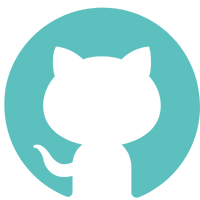
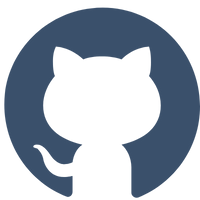
Atualização

diff --git a/html/contato.html b/html/contato.html
@@ -16,9 +16,9 @@
 
 <!--Cabeçalho-->
     <header>
-          <nav class="navbar navbar-expand-lg  fixed-top"style=" background: rgba(114, 223, 255, 0.9)">
+          <nav class="navbar navbar-expand-lg  fixed-top">
             <div class="container-fluid cabecalho">
-                <img src="../assets/logo1.png" alt="Logo da empresa Solucione" width="130" height="28">
+                <img src="../assets/logo.png" alt="Logo da empresa Solucione" width="134" height="36">
               <button class="navbar-toggler" type="button" data-bs-toggle="collapse" data-bs-target="#navbarNav" aria-controls="navbarNav" aria-expanded="false" aria-label="Toggle navigation">
                 <span class="navbar-toggler-icon"></span>
               </button>
@@ -55,7 +55,7 @@
     <section class="flex">
 
         <div>
-            <img src="../assets/bruna.gif" alt='Diretora e fundadora da Solucione'width="200px" height="200">
+            <img src="../assets/bruna.png" alt='Diretora e fundadora da Solucione'width="200px" height="200">
             <h3>Bruna Xavier</h3>
             <p>CEO e Founder</p>
             <p>
@@ -64,7 +64,7 @@
             </p>
         </div>
         <div>
-            <img src="../assets/carol.gif" alt='Vice diretora da Solucione'width="200px" height="200">
+            <img src="../assets/carol.png" alt='Vice diretora da Solucione'width="200px" height="200">
             <h3>Caroline Araújo</h3>
             <p>Co-Founder</p>
             <p>
@@ -73,7 +73,7 @@
             </p>
         </div>
         <div>
-            <img src="../assets/leo.gif" alt='Diretor de TI da Solucione'width="200px" height="200">
+            <img src="../assets/leo.png" alt='Diretor de TI da Solucione'width="200px" height="200">
             <h3>Leonardo Iplinsky</h3>
             <p>Diretor de TI</p>
             <p>
@@ -82,7 +82,7 @@
             </p>
         </div>
         <div>
-            <img src="../assets/isabella.gif" alt='Estrategista da Solucione'width="200px" height="200">
+            <img src="../assets/isabella.png" alt='Estrategista da Solucione'width="200px" height="200">
             <h3>Isabella Oliveira</h3>
             <p>Estrategista</p>
             <p>

diff --git a/css/contato.css b/css/contato.css
@@ -5,13 +5,17 @@ padding: 0%;
 text-align: center;
 
 }
-
+.navbar {
+    background: none;
+    padding: 15px;
+}
 
 .navegador a {
 color: #000;
 }
 body{
     font-family: "Poppins", sans-serif;
+    background: url(../assets/fundobranco.png);
 }
 nav{
     margin-bottom: 50px;
@@ -20,18 +24,18 @@ nav{
 nav h1{
     margin-top: 80px;
     font-size: 40px;
-    color: #226A80;
+    color: #3A506B
 }
 
 nav p{
     font-size: 20px;
-    color: #3a5068;
+    color: #3A506B;
 }
 
 nav h2{
     margin-top: 30px;
     font-size: 25px;
-    color: #226A80;
+    color: #3A506B;
 }
 
 section{
